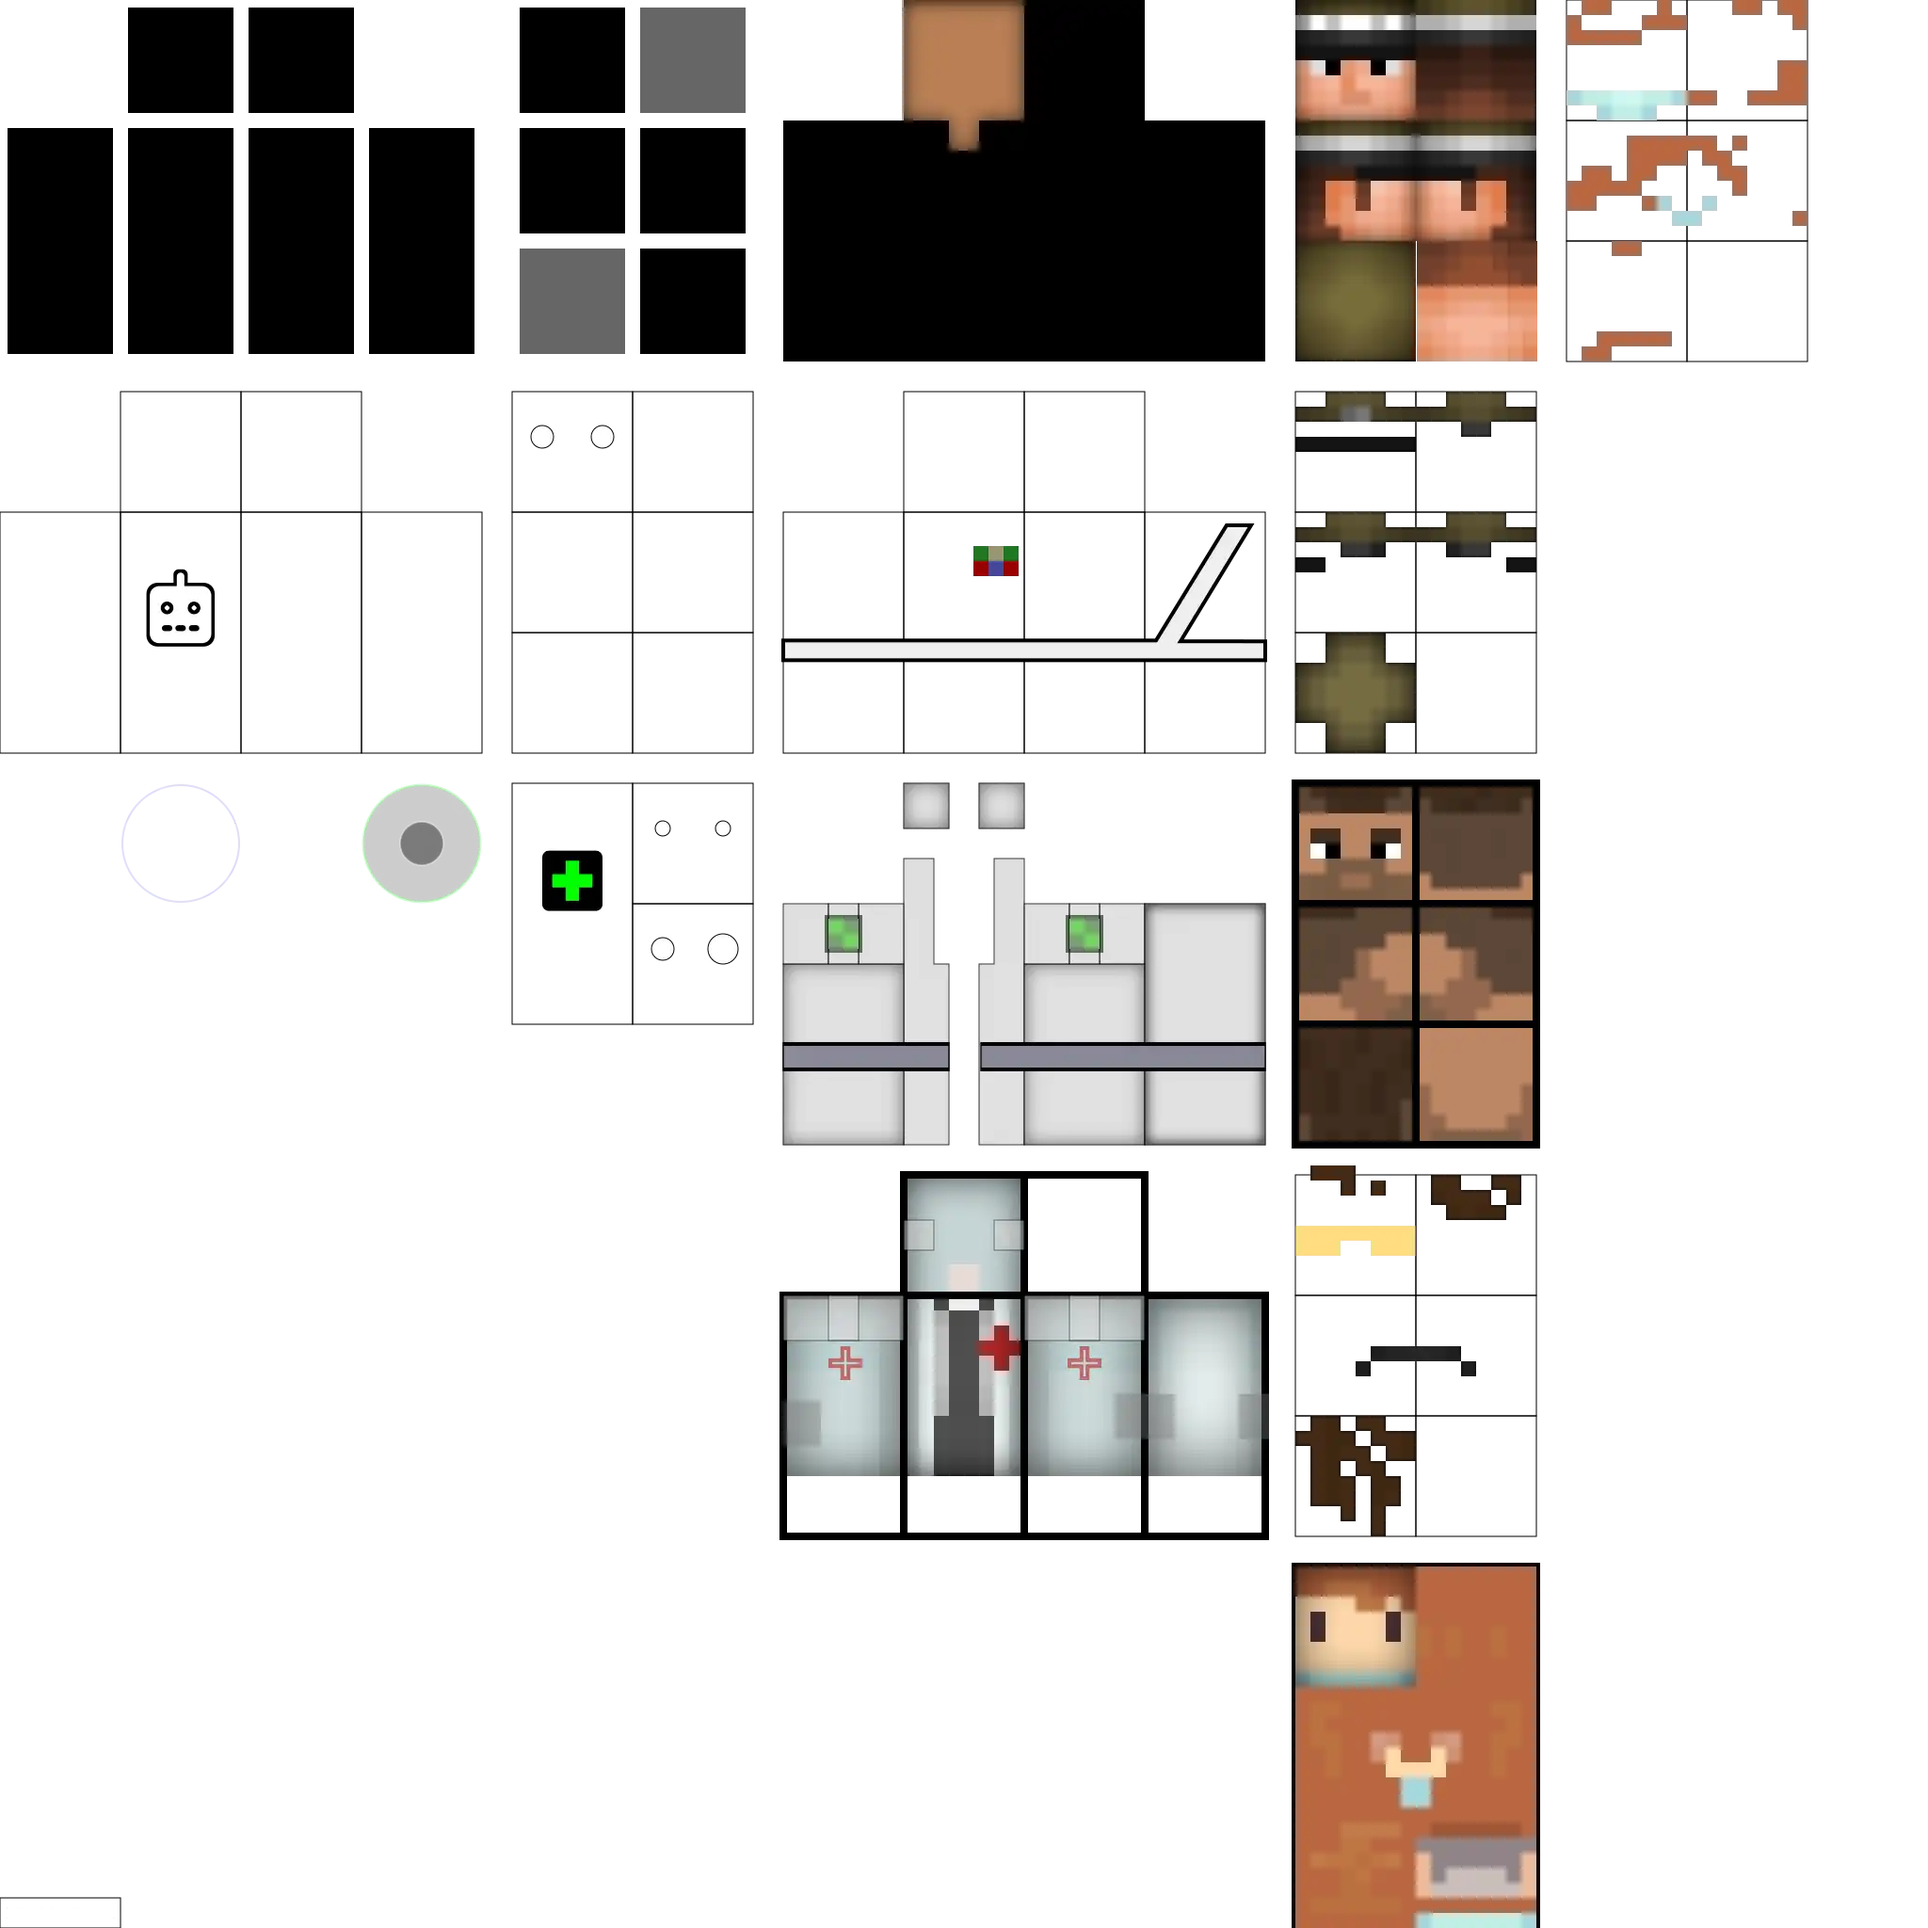
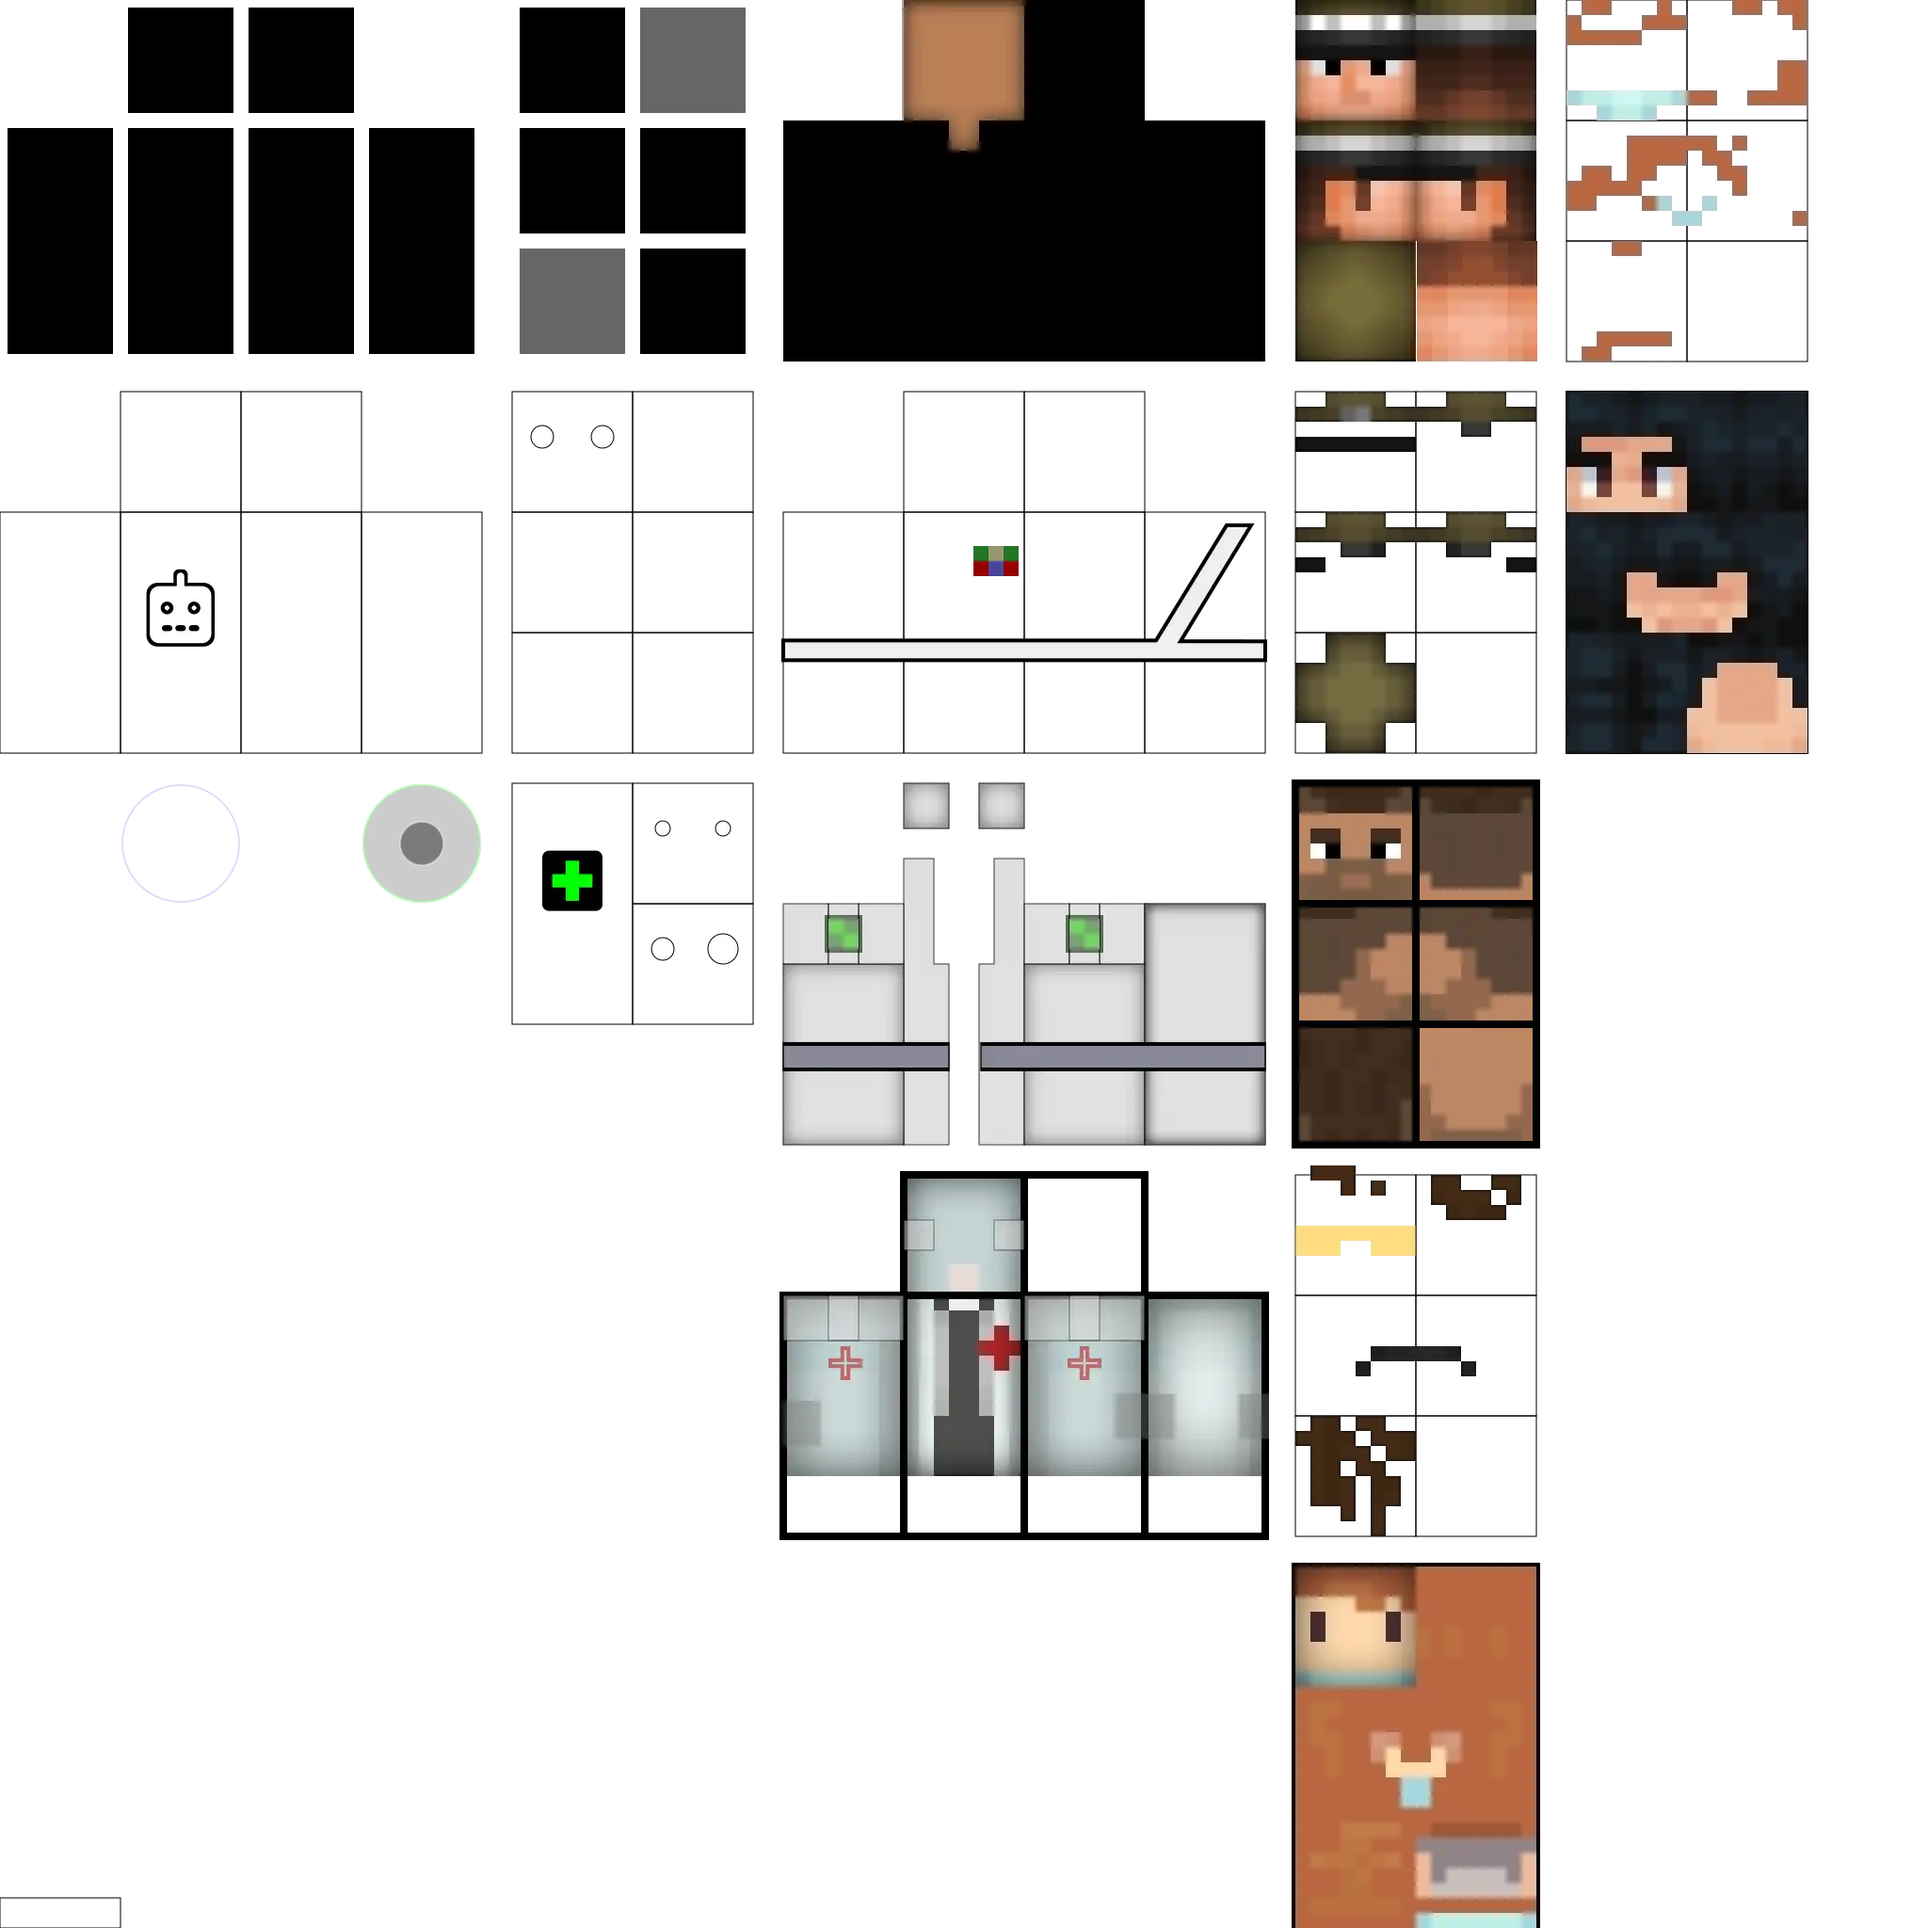
feat: skin: start suit-0

Changed region(s): [[0.8125, 0.1875, 0.9375, 0.4062]]

diff --git a/README.md b/README.md
@@ -46,7 +46,8 @@ Then you can run the various scripts (as needed) found inside `scripts/get-pngs.
 
 ## Gotchas
 
-1. npm module `canvas` (a.k.a. node-canvas) loadImage does not handle `<path>` such as:
+1. npm module `canvas` (a.k.a. node-canvas) loadImage does not handle both `transform` and `transform-box`.
+   > https://github.com/Automattic/node-canvas/issues/2507
 
   ```xml
   <path d="M 1088 192 L 1088 128 L 1040 192 L 1088 192 Z" style="fill: rgb(216, 216, 216); stroke: rgb(0, 0, 0); transform-box: fill-box; transform-origin: 50% 50%;" transform="matrix(-1, 0, 0, -1, 0, 0)">
@@ -54,7 +55,7 @@ Then you can run the various scripts (as needed) found inside `scripts/get-pngs.
   </path>
   ```
 
-  In BoxySVG we can `Object > transform > Reduce Transform`
+  In BoxySVG we can `Object > transform > Reduce Transform`.
 
 
 ## Development only routes
@@ -255,11 +256,10 @@ We'll try to re-map publicly available Minecraft Skins.
 - https://namemc.com/minecraft-skins/tag/general
 - https://namemc.com/minecraft-skins/tag/medic
   - 🚧 https://namemc.com/skin/194c3366860674c0
-- https://namemc.com/minecraft-skins/tag/knight
-  - 🚧 https://namemc.com/skin/5fd193f91ecc3e2e
 - https://namemc.com/minecraft-skins/tag/suit
+  - 🚧 https://namemc.com/skin/7271372bc0b9bc89
 - https://namemc.com/minecraft-skins/tag/business
-  - https://namemc.com/skin/7065f5c6d21f8df9
+  - https://namemc.com/skin/9ec38f8ce7f8498d
 - https://namemc.com/minecraft-skins/tag/engineer
   - https://namemc.com/skin/5040062e039888a2
 - https://namemc.com/minecraft-skins/tag/assassin
@@ -276,3 +276,5 @@ We'll try to re-map publicly available Minecraft Skins.
   - https://namemc.com/skin/c4e6ff045b7ab219
 - https://namemc.com/minecraft-skins/tag/skeleton
   - https://namemc.com/skin/4c15a5af6a583cc9
+- https://namemc.com/minecraft-skins/tag/knight
+  - https://namemc.com/skin/5fd193f91ecc3e2e

diff --git a/docs/TODO.md b/docs/TODO.md
@@ -57,7 +57,8 @@
 - 🚧 three more minecraft skin migrations (total 5)
   - ✅ medic-0
     - https://namemc.com/skin/194c3366860674c0
-  - 🚧 ...
+  - 🚧 suit-0
+    - https://namemc.com/skin/7271372bc0b9bc89
 
 - 🚧 cleanup human-0 skin
   - ✅ Blender: overlay cuboids should be double-sided
